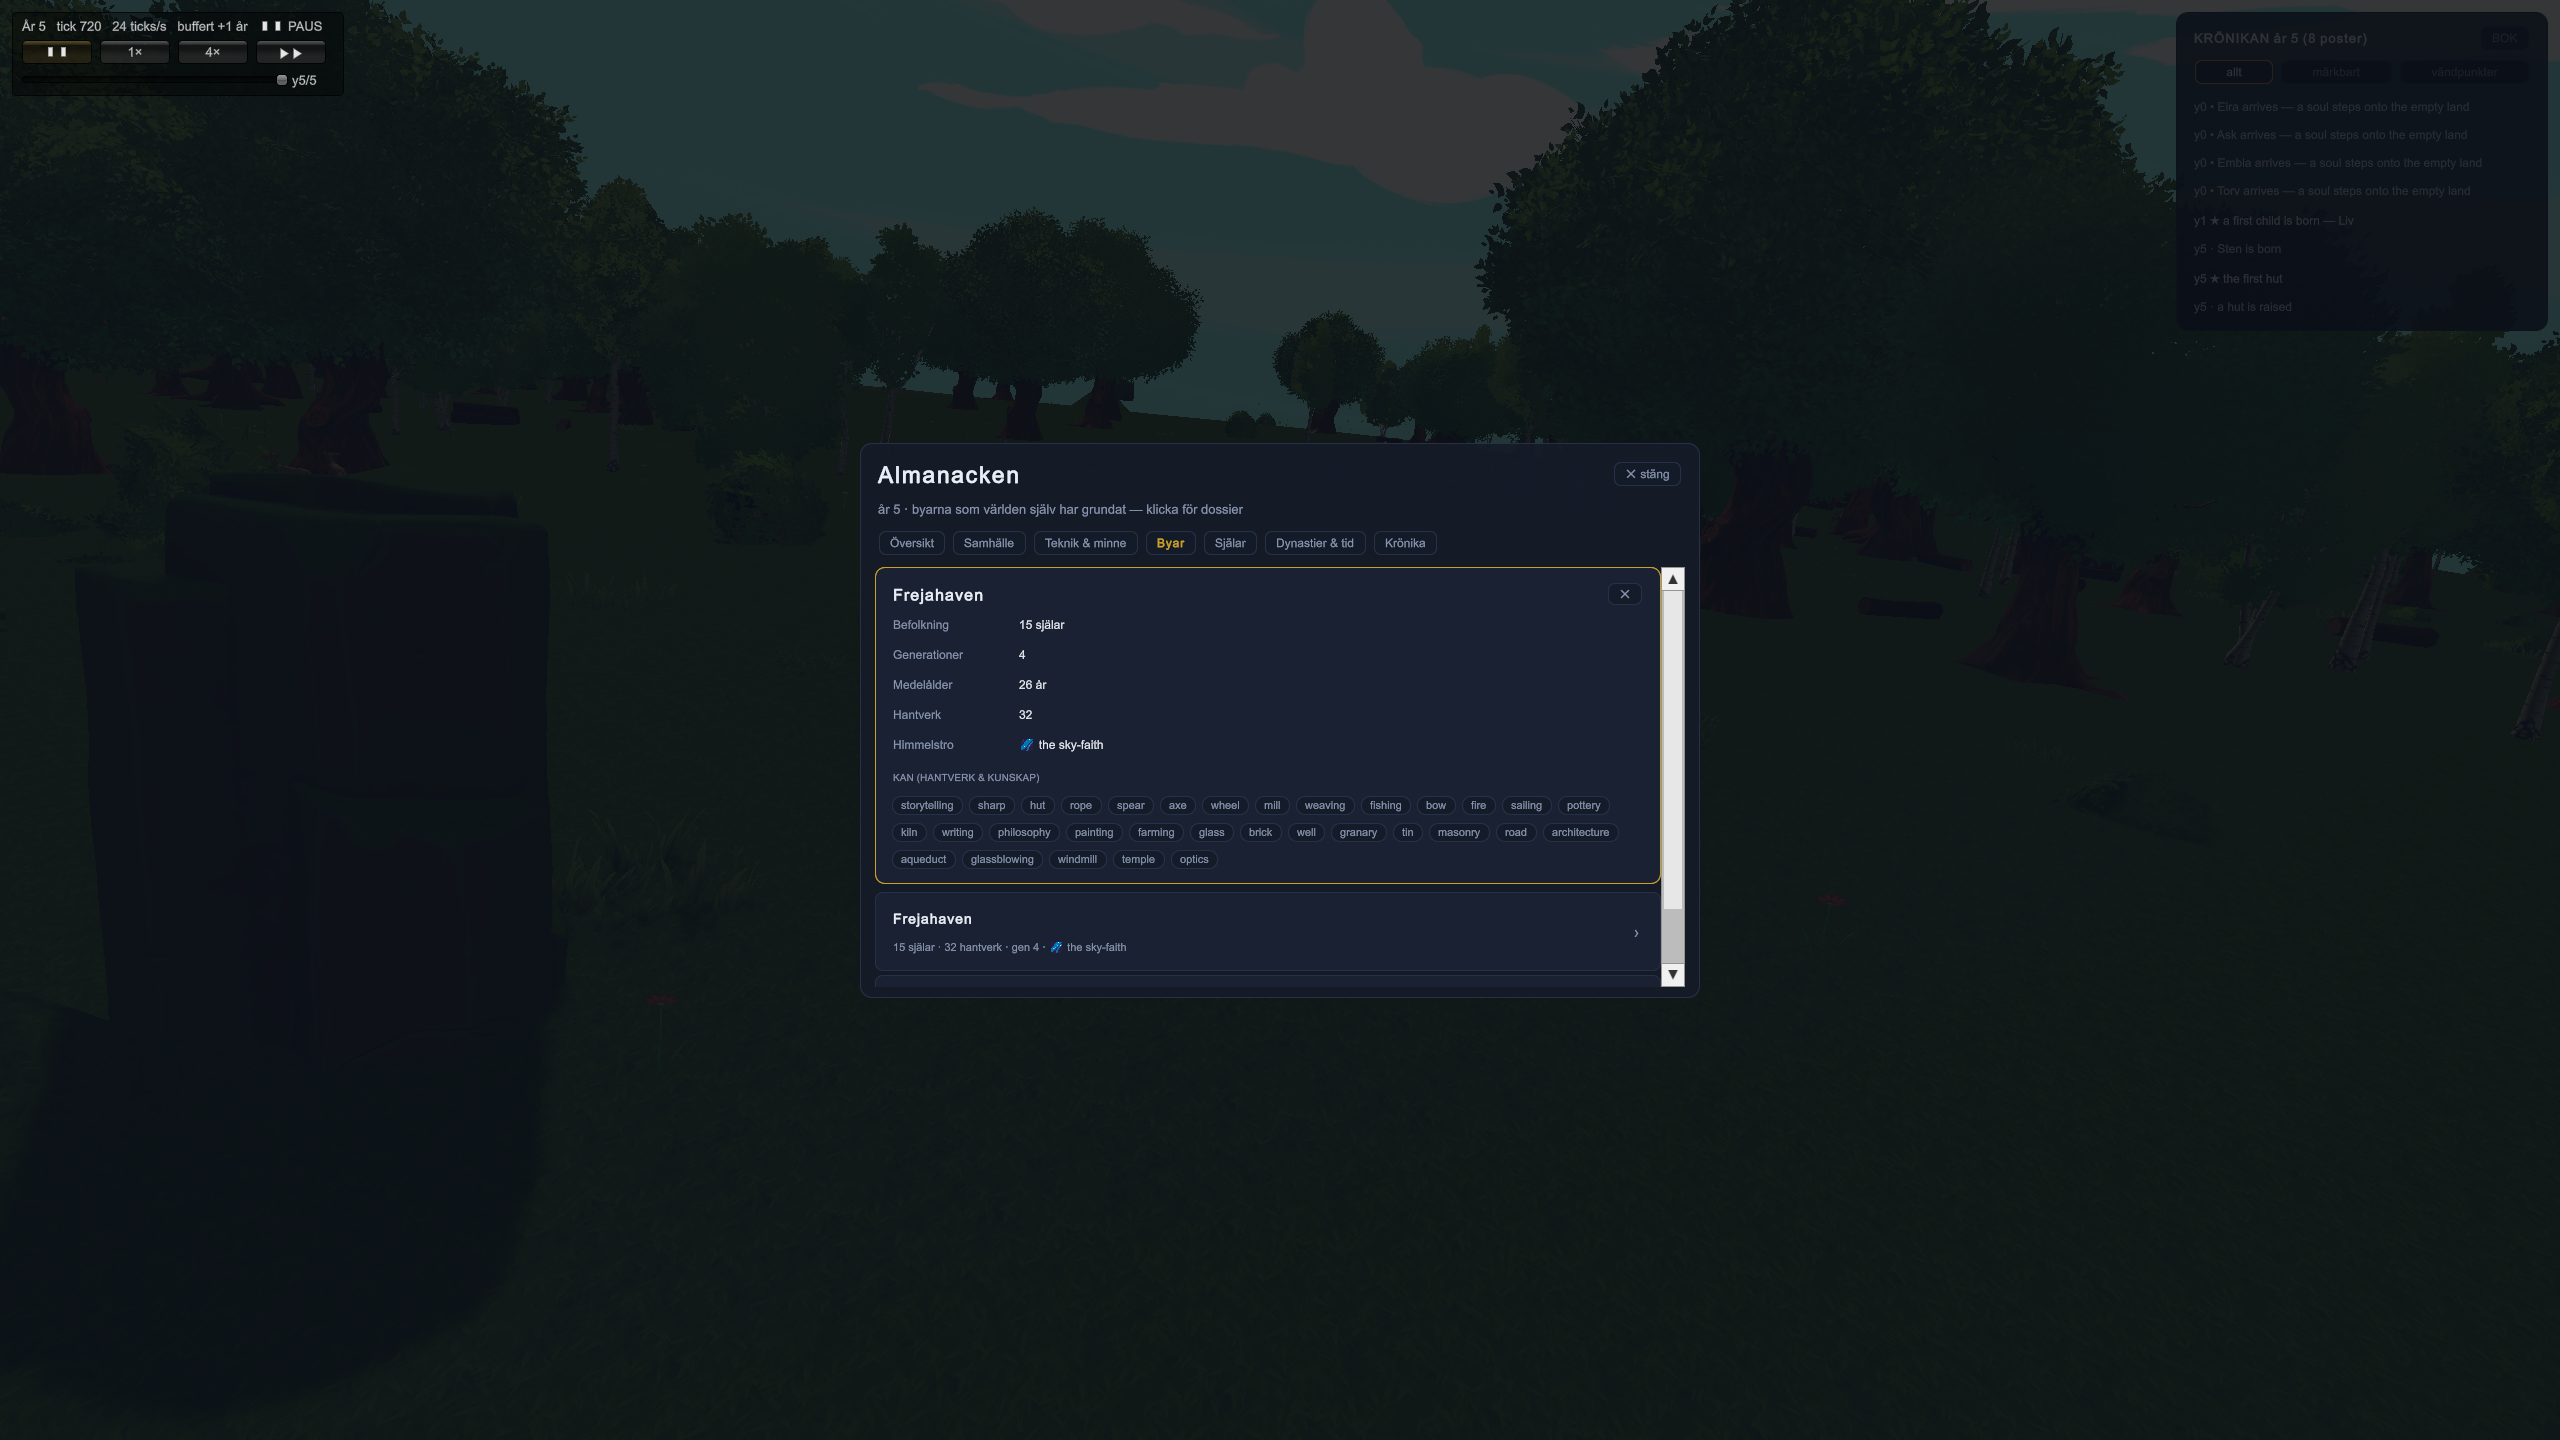
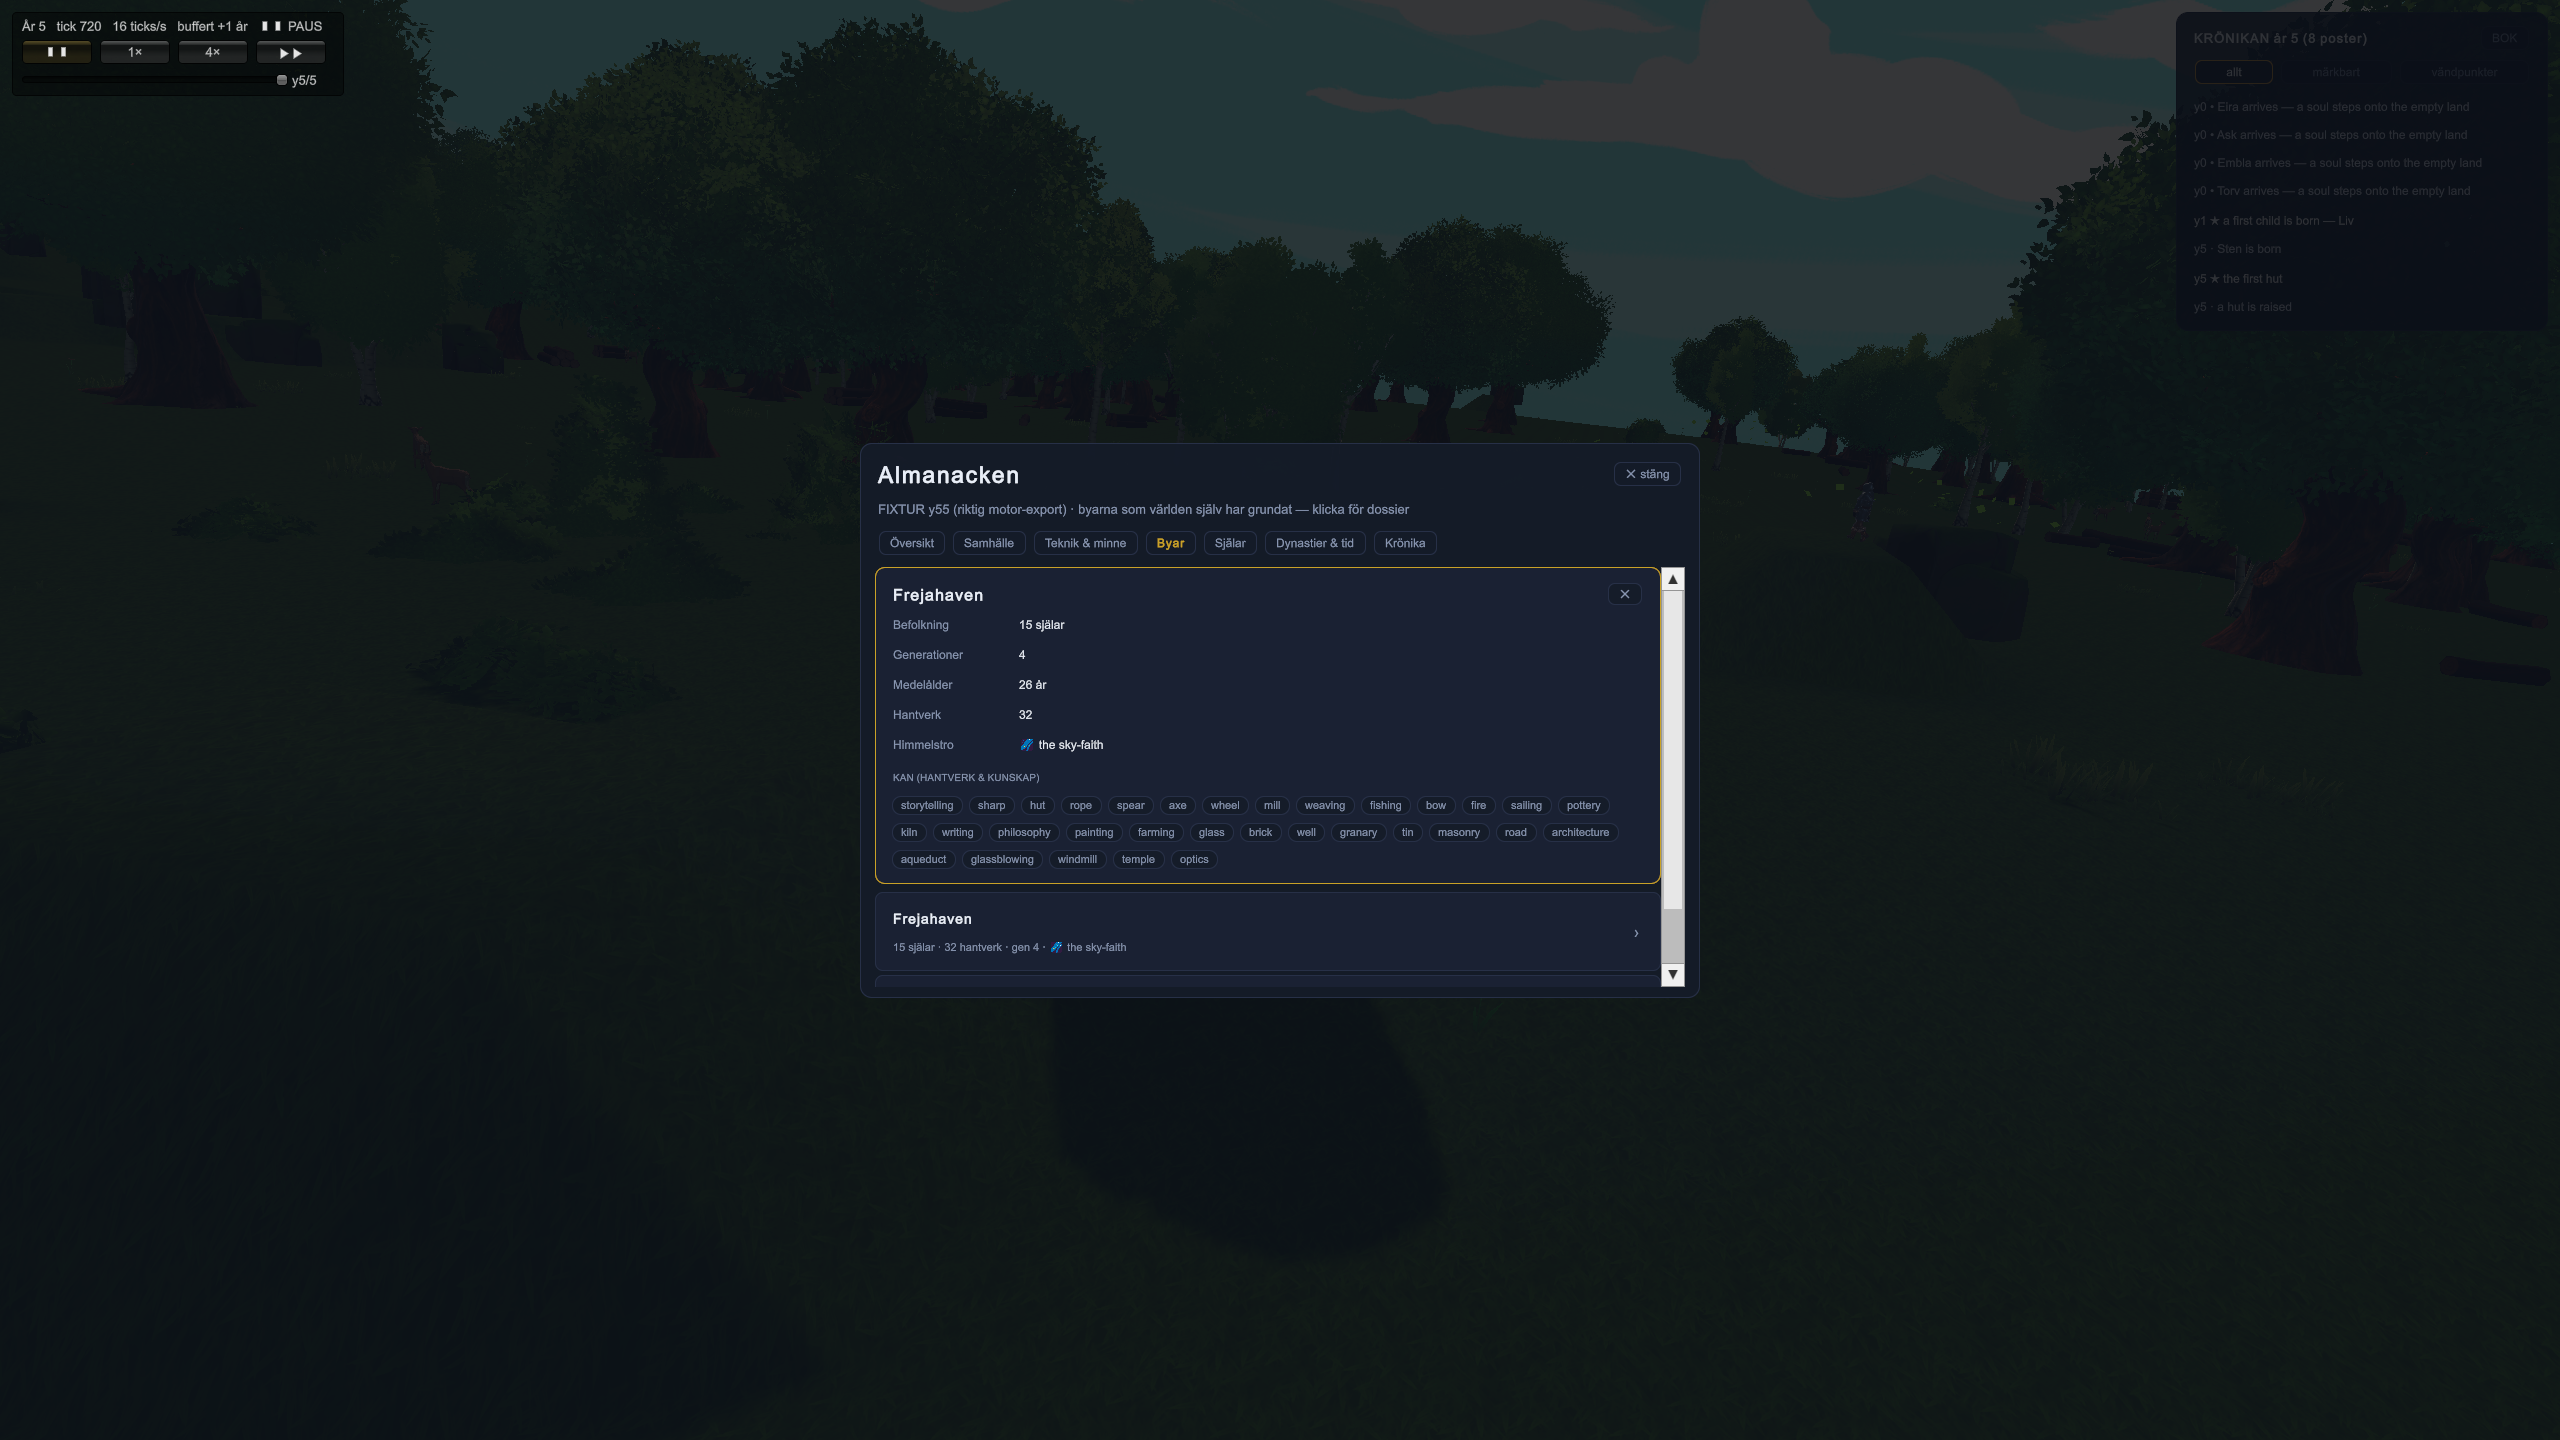
TD-063: FAS 5 gate review round 1 conditions closed (I1-I4 + R1, D-155)
- Probe DONE key figures are measurement-time stamps (soulsRowsLive,
  villagesFixtureRows, recordsAtTruth, curvePtsAtTruth) — a mirror of the
  report's OK lines, never finish-time view state (R1 demolition done)
- Golden report label fixed: commit:, not tree: (I3)
- Almanac state tabs carry an honest time label: FIXTUR y55 marker when a
  fixture is applied, never the presentation year next to fixture data (I4)
- Fas 5 gate prep trinity written (FAS5-GRIND-CHECKLISTA/-ARTEFAKTPAKET);
  review verdict: APPROVED WITH CONDITIONS -> gate opens purchase-free
  (FAS5-GRIND-REVIEW-2026-07-23.md)
- Reruns after fixes: FAS5TABS GREEN, FAS5ALM GREEN, golden 4/4 GREEN

diff --git a/Assets/Emergence/Fas5/Editor/Fas5TabsProbe.cs b/Assets/Emergence/Fas5/Editor/Fas5TabsProbe.cs
@@ -49,6 +49,7 @@ namespace Emergence.Editor
         static Fas5AlmanacView _view;
         static WorldState _fix;
         static int _liveVillageCount = -1;
+        static int _soulsRowsLive = -1, _villRowsFixture = -1;   // R1 (Fas 5 review): DONE key figures stamped AT MEASUREMENT TIME, never read from view state at finish
         static float _tpsBefore, _grabAskedAt;
         static string _n1 = "", _n2 = "", _n3 = "", _n4 = "", _n5 = "", _n6 = "", _n7 = "", _n8 = "", _n9 = "";
 
@@ -122,7 +123,7 @@ namespace Emergence.Editor
             SessionState.SetInt(KeyPending, 1);
             SessionState.SetFloat(KeyStart, (float)EditorApplication.timeSinceStartup);
             _frames = 0; _phase = 0; _onb = null; _rec = null; _view = null; _fix = null;
-            _liveVillageCount = -1; _tpsBefore = 0f; _grabAskedAt = 0f;
+            _liveVillageCount = -1; _soulsRowsLive = -1; _villRowsFixture = -1; _tpsBefore = 0f; _grabAskedAt = 0f;
             _n1 = _n2 = _n3 = _n4 = _n5 = _n6 = _n7 = _n8 = _n9 = "";
             File.WriteAllText(Done, "RUNNING (entering play mode) " + DateTime.Now.ToString("HH:mm:ss") + "\n");
             EditorApplication.EnterPlaymode();
@@ -192,6 +193,7 @@ namespace Emergence.Editor
                             && _view.SoulDossierGen == oldest.gen
                             && _view.SoulDossierTask == (oldest.task ?? "");
                 _n3 = $"souls LIVE: rows {_view.SoulRowCount}=={expRows}, oldest first '{_view.SoulRowName(0)}'=='{(oldest != null ? oldest.name : "?")}', dossier {_view.SoulDossierName}/{_view.SoulDossierAge} år/gen {_view.SoulDossierGen}/'{_view.SoulDossierTask}' ({(soulsOk ? "OK" : "FAIL")})";
+                _soulsRowsLive = _view.SoulRowCount;   // stamped at the live measurement (review I1)
 
                 var g = new GameObject("Fas5SoulsGrabber").AddComponent<Fas4NativeGrabber>();
                 g.Path = PngSouls; g.OnGrabbed = note => { _n7 = "souls " + note; };
@@ -224,6 +226,7 @@ namespace Emergence.Editor
                            && _view.VillageDossierGen == e0.maxGen && _view.VillageDossierCrafts == e0.crafts
                            && _view.VillageDossierKnows == (e0.knows != null ? e0.knows.Length : 0);
                 bool countOk = _view.VillageRowCount == _fix.villages.Length;
+                _villRowsFixture = _view.VillageRowCount;   // stamped at the fixture measurement (review I1/R1)
                 _n4 = $"villages FIXTURE (y055, real export): rows {_view.VillageRowCount}=={_fix.villages.Length}, pop-DESC order {(orderOk ? "OK" : "FAIL")}, dossier '{_view.VillageDossierName}' pop {_view.VillageDossierPop} gen {_view.VillageDossierGen} crafts {_view.VillageDossierCrafts} knows {_view.VillageDossierKnows} ({(countOk && orderOk && dossOk ? "OK" : "FAIL")})";
 
                 var g = new GameObject("Fas5VillGrabber").AddComponent<Fas4NativeGrabber>();
@@ -288,7 +291,7 @@ namespace Emergence.Editor
                     ? "GREEN — the almanac has its skeleton: Villages live, Souls base, honest stubs, the book one tab away"
                     : "CHECK — see notes above"));
                 File.WriteAllText(Report, sb.ToString());
-                File.WriteAllText(Done, $"DONE {DateTime.Now:HH:mm:ss} verdict={(green ? "GREEN" : "CHECK")} villagesFixture={( _fix != null && _fix.villages != null ? _fix.villages.Length : -1)} soulsRows={(_view != null ? _view.SoulRowCount : -1)}\nsee {Report}\n");
+                File.WriteAllText(Done, $"DONE {DateTime.Now:HH:mm:ss} verdict={(green ? "GREEN" : "CHECK")} villagesFixtureRows={_villRowsFixture} soulsRowsLive={_soulsRowsLive}\nsee {Report}\n");   // key figures are measurement-time stamps, a mirror of the report's OK lines (review R1)
             }
             catch (Exception e) { try { File.WriteAllText(Done, "ERROR finish: " + e.Message + "\n"); } catch {} }
             finally

diff --git a/Assets/Emergence/Fas5/Editor/Fas5AlmanacProbe.cs b/Assets/Emergence/Fas5/Editor/Fas5AlmanacProbe.cs
@@ -46,6 +46,7 @@ namespace Emergence.Editor
         static Fas5MetricsRecorder _rec;
         static Fas5AlmanacView _view;
         static float _tpsBefore, _grabAskedAt;
+        static int _recordsAtTruth = -1, _curvePtsAtTruth = -1;   // R1 (Fas 5 review): DONE key figures stamped AT MEASUREMENT TIME, never read from view/recorder state at finish
         static string _n1 = "", _n2 = "", _n3 = "", _n4 = "", _n5 = "", _n6 = "", _n7 = "", _n8 = "", _n9 = "";
 
         static Fas5AlmanacProbe() { EditorApplication.update += Tick; }
@@ -118,7 +119,7 @@ namespace Emergence.Editor
             SessionState.SetInt(KeyPending, 1);
             SessionState.SetFloat(KeyStart, (float)EditorApplication.timeSinceStartup);
             _frames = 0; _phase = 0; _p4frames = 0; _onb = null; _feed = null; _rec = null; _view = null;
-            _tpsBefore = 0f; _grabAskedAt = 0f;
+            _tpsBefore = 0f; _grabAskedAt = 0f; _recordsAtTruth = -1; _curvePtsAtTruth = -1;
             _n1 = _n2 = _n3 = _n4 = _n5 = _n6 = _n7 = _n8 = _n9 = "";
             File.WriteAllText(Done, "RUNNING (entering play mode) " + DateTime.Now.ToString("HH:mm:ss") + "\n");
             EditorApplication.EnterPlaymode();
@@ -191,6 +192,7 @@ namespace Emergence.Editor
                             && _view.TileYear == c.PresentationYear;
                 bool curveOk = _view.CurvePointCount == _rec.RecordCount && _view.CurveLastYear == w.LastAppliedYear;
                 _n4 = $"tiles==recorder: pop {_view.TilePop}/{latest.pop} births {_view.TileBirths}/{_rec.TotalBirths} deaths {_view.TileDeaths}/{_rec.TotalDeaths} huts {_view.TileHuts}/{_rec.HutCount} år {_view.TileYear}/{c.PresentationYear} ({(tilesOk ? "OK" : "FAIL")}); curve {_view.CurvePointCount} pts to y{_view.CurveLastYear} ({(curveOk ? "OK" : "FAIL")})";
+                _recordsAtTruth = _rec.RecordCount; _curvePtsAtTruth = _view.CurvePointCount;   // stamped at the truth check (review I2)
 
                 bool eraOk = _view.TileEra == WorldEras.Name(S != null ? S.era : 0) && _view.TileEra != S.season;
                 _n5 = $"era tile: '{_view.TileEra}' == WorldEras.Name({(S != null ? S.era : 0)}), never the season ('{(S != null ? S.season : "?")}') ({(eraOk ? "OK" : "FAIL")})";
@@ -267,7 +269,7 @@ namespace Emergence.Editor
                     ? "GREEN — ANALYZE has its first native face: the Overview lives, honest pause + scrub semantics, the pattern-depth awaits the engine"
                     : "CHECK — see notes above"));
                 File.WriteAllText(Report, sb.ToString());
-                File.WriteAllText(Done, $"DONE {DateTime.Now:HH:mm:ss} verdict={(green ? "GREEN" : "CHECK")} records={(_rec != null ? _rec.RecordCount : -1)} curvePts={(_view != null ? _view.CurvePointCount : -1)}\nsee {Report}\n");
+                File.WriteAllText(Done, $"DONE {DateTime.Now:HH:mm:ss} verdict={(green ? "GREEN" : "CHECK")} recordsAtTruth={_recordsAtTruth} curvePtsAtTruth={_curvePtsAtTruth}\nsee {Report}\n");   // key figures are measurement-time stamps, a mirror of the report's OK lines (review R1)
             }
             catch (Exception e) { try { File.WriteAllText(Done, "ERROR finish: " + e.Message + "\n"); } catch {} }
             finally

diff --git a/Assets/Emergence/Fas5/Runtime/Fas5AlmanacView.cs b/Assets/Emergence/Fas5/Runtime/Fas5AlmanacView.cs
@@ -139,6 +139,11 @@ namespace Emergence.Runtime
             var w = WorldRt(); return w != null ? w.LastState : null;
         }
 
+        /// <summary>Honest time label for the state-rendering tabs (review I4): when a fixture is
+        /// applied the header must carry the FIXTURE's year with a visible marker — never the
+        /// presentation clock's year next to fixture data.</summary>
+        string StateWhen() => _fixture != null ? "FIXTUR y" + _fixture.years + " (riktig motor-export)" : "år " + TileYear;
+
         // ---------------- public surface (probe + future game UI) ----------------
 
         public void OpenAlmanac()
@@ -234,11 +239,11 @@ namespace Emergence.Runtime
                     _curveHost.MarkDirtyRepaint();
                     break;
                 case TabVillages:
-                    _sub.text = "år " + TileYear + " · byarna som världen själv har grundat — klicka för dossier";
+                    _sub.text = StateWhen() + " · byarna som världen själv har grundat — klicka för dossier";
                     RebuildVillages(S);
                     break;
                 case TabSouls:
-                    _sub.text = "år " + TileYear + " · de " + SoulRowCap + " äldsta själarna — roller · rikedom · egenskaper väntar på motorns metrics (R2)";
+                    _sub.text = StateWhen() + " · de " + SoulRowCap + " äldsta själarna — roller · rikedom · egenskaper väntar på motorns metrics (R2)";
                     RebuildSouls(S);
                     break;
                 default:

diff --git a/Assets/Emergence/Editor/GoldenMasterRunner.cs b/Assets/Emergence/Editor/GoldenMasterRunner.cs
@@ -78,7 +78,7 @@ namespace Emergence.Editor
         {
             var report = new StringBuilder();
             report.AppendLine($"GOLDEN MASTER — in-editor (Unity {Application.unityVersion}, {DateTime.Now:yyyy-MM-dd HH:mm})");
-            report.AppendLine($"tree: {GitHeadSha()}");   // D-143 gate remark: the report carries its own commit SHA
+            report.AppendLine($"commit: {GitHeadSha()}");   // D-143 gate remark: the report carries its own commit SHA (label fixed per Fas 5 review I3 — it IS the commit, not the tree object)
             ShaAssert();
             report.AppendLine("Engine SHA assert: OK");
             bool green = true;
